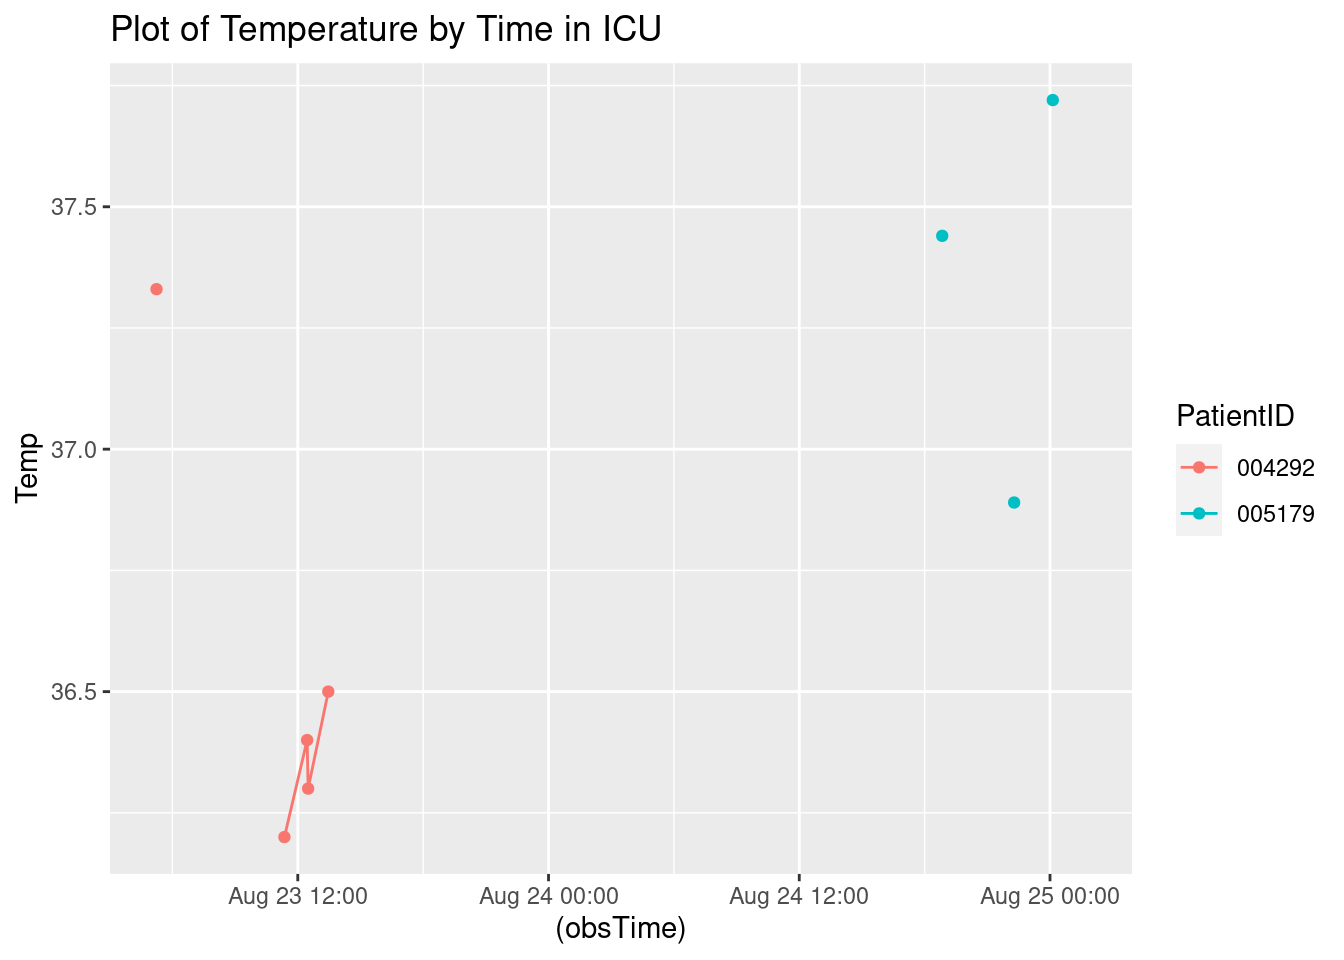
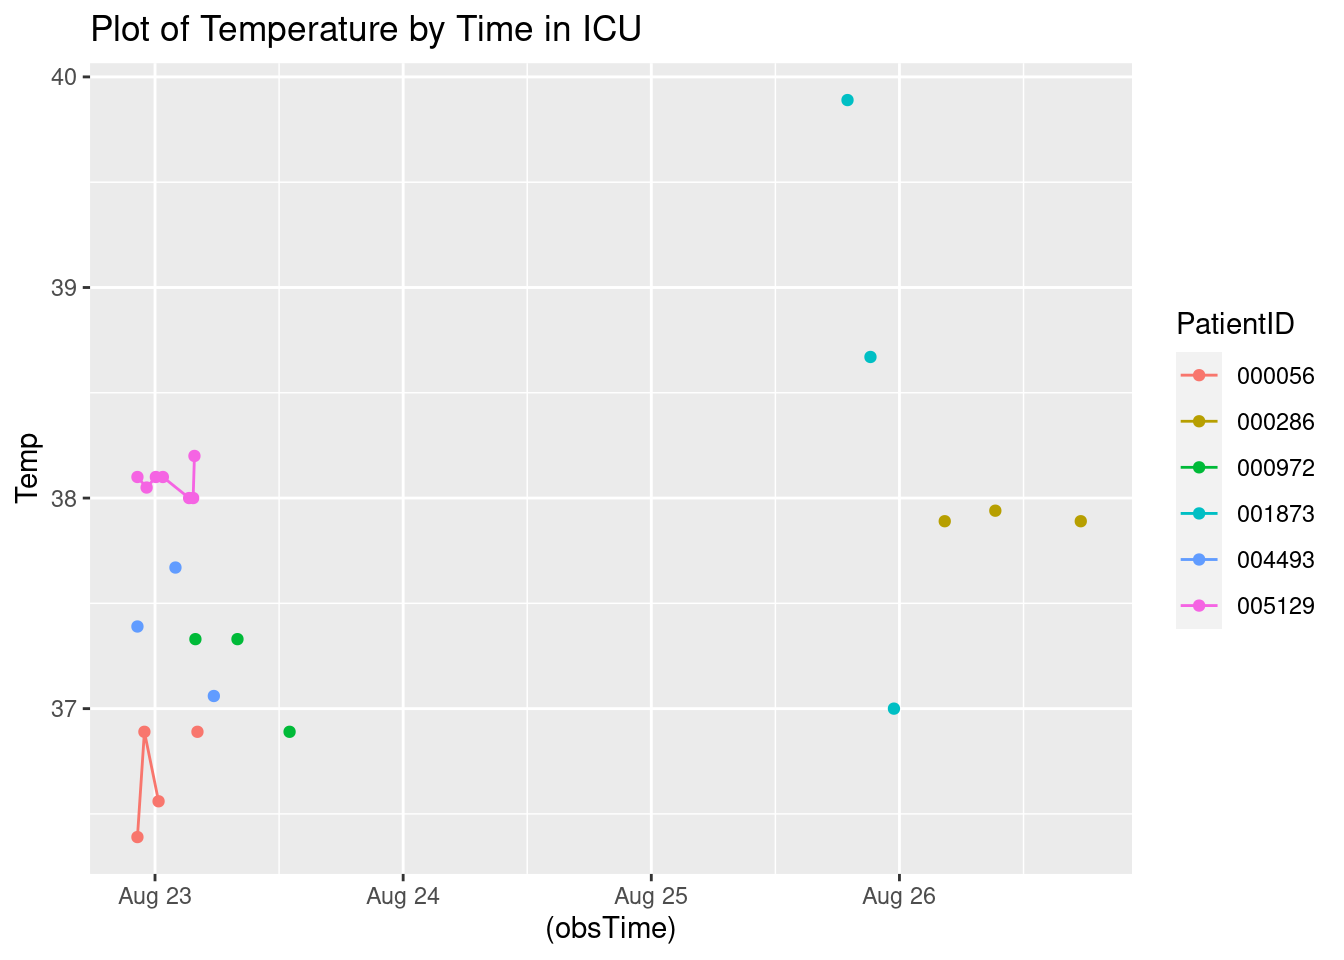
Updated report

diff --git a/A7.html b/A7.html
@@ -114,7 +114,7 @@ pre > code.sourceCode > span > a:first-child::before { text-decoration: underlin
 </div>
 <div class="sourceCode cell-code" id="cb4"><pre class="sourceCode r code-with-copy"><code class="sourceCode r"><span id="cb4-1"><a href="#cb4-1" aria-hidden="true" tabindex="-1"></a><span class="fu">toc</span>()</span></code><button title="Copy to Clipboard" class="code-copy-button"><i class="bi"></i></button></pre></div>
 <div class="cell-output cell-output-stdout">
-<pre><code>5.112 sec elapsed</code></pre>
+<pre><code>3.192 sec elapsed</code></pre>
 </div>
 <div class="sourceCode cell-code" id="cb6"><pre class="sourceCode r code-with-copy"><code class="sourceCode r"><span id="cb6-1"><a href="#cb6-1" aria-hidden="true" tabindex="-1"></a><span class="fu">tic</span>()</span>
 <span id="cb6-2"><a href="#cb6-2" aria-hidden="true" tabindex="-1"></a>test1<span class="ot">=</span><span class="fu">makeSepsisDataset</span>(<span class="at">n=</span><span class="dv">50</span>,<span class="at">read_fn =</span> <span class="st">"read_delim"</span>)</span>
@@ -124,7 +124,7 @@ pre > code.sourceCode > span > a:first-child::before { text-decoration: underlin
 </div>
 <div class="sourceCode cell-code" id="cb8"><pre class="sourceCode r code-with-copy"><code class="sourceCode r"><span id="cb8-1"><a href="#cb8-1" aria-hidden="true" tabindex="-1"></a><span class="fu">toc</span>()</span></code><button title="Copy to Clipboard" class="code-copy-button"><i class="bi"></i></button></pre></div>
 <div class="cell-output cell-output-stdout">
-<pre><code>19.92 sec elapsed</code></pre>
+<pre><code>14.917 sec elapsed</code></pre>
 </div>
 <div class="sourceCode cell-code" id="cb10"><pre class="sourceCode r code-with-copy"><code class="sourceCode r"><span id="cb10-1"><a href="#cb10-1" aria-hidden="true" tabindex="-1"></a><span class="co"># n=100</span></span>
 <span id="cb10-2"><a href="#cb10-2" aria-hidden="true" tabindex="-1"></a><span class="fu">tic</span>()</span>
@@ -135,7 +135,7 @@ pre > code.sourceCode > span > a:first-child::before { text-decoration: underlin
 </div>
 <div class="sourceCode cell-code" id="cb12"><pre class="sourceCode r code-with-copy"><code class="sourceCode r"><span id="cb12-1"><a href="#cb12-1" aria-hidden="true" tabindex="-1"></a><span class="fu">toc</span>()</span></code><button title="Copy to Clipboard" class="code-copy-button"><i class="bi"></i></button></pre></div>
 <div class="cell-output cell-output-stdout">
-<pre><code>9.237 sec elapsed</code></pre>
+<pre><code>5.391 sec elapsed</code></pre>
 </div>
 <div class="sourceCode cell-code" id="cb14"><pre class="sourceCode r code-with-copy"><code class="sourceCode r"><span id="cb14-1"><a href="#cb14-1" aria-hidden="true" tabindex="-1"></a><span class="fu">tic</span>()</span>
 <span id="cb14-2"><a href="#cb14-2" aria-hidden="true" tabindex="-1"></a>test1<span class="ot">=</span><span class="fu">makeSepsisDataset</span>(<span class="at">n=</span><span class="dv">100</span>,<span class="at">read_fn =</span> <span class="st">"read_delim"</span>)</span>
@@ -145,7 +145,7 @@ pre > code.sourceCode > span > a:first-child::before { text-decoration: underlin
 </div>
 <div class="sourceCode cell-code" id="cb16"><pre class="sourceCode r code-with-copy"><code class="sourceCode r"><span id="cb16-1"><a href="#cb16-1" aria-hidden="true" tabindex="-1"></a><span class="fu">toc</span>()</span></code><button title="Copy to Clipboard" class="code-copy-button"><i class="bi"></i></button></pre></div>
 <div class="cell-output cell-output-stdout">
-<pre><code>36.702 sec elapsed</code></pre>
+<pre><code>21.592 sec elapsed</code></pre>
 </div>
 <div class="sourceCode cell-code" id="cb18"><pre class="sourceCode r code-with-copy"><code class="sourceCode r"><span id="cb18-1"><a href="#cb18-1" aria-hidden="true" tabindex="-1"></a><span class="co"># n=500</span></span>
 <span id="cb18-2"><a href="#cb18-2" aria-hidden="true" tabindex="-1"></a><span class="fu">tic</span>()</span>
@@ -156,7 +156,7 @@ pre > code.sourceCode > span > a:first-child::before { text-decoration: underlin
 </div>
 <div class="sourceCode cell-code" id="cb20"><pre class="sourceCode r code-with-copy"><code class="sourceCode r"><span id="cb20-1"><a href="#cb20-1" aria-hidden="true" tabindex="-1"></a><span class="fu">toc</span>()</span></code><button title="Copy to Clipboard" class="code-copy-button"><i class="bi"></i></button></pre></div>
 <div class="cell-output cell-output-stdout">
-<pre><code>45.059 sec elapsed</code></pre>
+<pre><code>27.447 sec elapsed</code></pre>
 </div>
 <div class="sourceCode cell-code" id="cb22"><pre class="sourceCode r code-with-copy"><code class="sourceCode r"><span id="cb22-1"><a href="#cb22-1" aria-hidden="true" tabindex="-1"></a><span class="fu">tic</span>()</span>
 <span id="cb22-2"><a href="#cb22-2" aria-hidden="true" tabindex="-1"></a>test1<span class="ot">=</span><span class="fu">makeSepsisDataset</span>(<span class="at">n=</span><span class="dv">500</span>,<span class="at">read_fn =</span> <span class="st">"read_delim"</span>)</span>
@@ -166,7 +166,7 @@ pre > code.sourceCode > span > a:first-child::before { text-decoration: underlin
 </div>
 <div class="sourceCode cell-code" id="cb24"><pre class="sourceCode r code-with-copy"><code class="sourceCode r"><span id="cb24-1"><a href="#cb24-1" aria-hidden="true" tabindex="-1"></a><span class="fu">toc</span>()</span></code><button title="Copy to Clipboard" class="code-copy-button"><i class="bi"></i></button></pre></div>
 <div class="cell-output cell-output-stdout">
-<pre><code>184.14 sec elapsed</code></pre>
+<pre><code>109.651 sec elapsed</code></pre>
 </div>
 </div>
 <p><strong>Task 3</strong></p>
@@ -192,7 +192,7 @@ pre > code.sourceCode > span > a:first-child::before { text-decoration: underlin
 <span id="cb28-4"><a href="#cb28-4" aria-hidden="true" tabindex="-1"></a></span>
 <span id="cb28-5"><a href="#cb28-5" aria-hidden="true" tabindex="-1"></a><span class="fu">Sys.time</span>()</span></code><button title="Copy to Clipboard" class="code-copy-button"><i class="bi"></i></button></pre></div>
 <div class="cell-output cell-output-stdout">
-<pre><code>[1] "2023-08-22 21:19:06 UTC"</code></pre>
+<pre><code>[1] "2023-08-22 22:18:02 UTC"</code></pre>
 </div>
 <div class="sourceCode cell-code" id="cb30"><pre class="sourceCode r code-with-copy"><code class="sourceCode r"><span id="cb30-1"><a href="#cb30-1" aria-hidden="true" tabindex="-1"></a>dfnew <span class="ot">&lt;-</span> df <span class="sc">%&gt;%</span></span>
 <span id="cb30-2"><a href="#cb30-2" aria-hidden="true" tabindex="-1"></a>  <span class="fu">subset</span>(SepsisLabel<span class="sc">==</span><span class="dv">1</span>)</span>
@@ -221,22 +221,58 @@ pre > code.sourceCode > span > a:first-child::before { text-decoration: underlin
 </thead>
 <tbody>
 <tr class="odd">
-<td style="text-align: left;">004292</td>
-<td style="text-align: right;">18</td>
+<td style="text-align: left;">000056</td>
+<td style="text-align: right;">7</td>
 <td style="text-align: right;">93</td>
-<td style="text-align: right;">36.5</td>
 <td style="text-align: right;">NA</td>
+<td style="text-align: right;">15</td>
 <td style="text-align: right;">1</td>
-<td style="text-align: left;">2023-08-23 13:27:37</td>
+<td style="text-align: left;">2023-08-23 04:58:20</td>
 </tr>
 <tr class="even">
-<td style="text-align: left;">005179</td>
-<td style="text-align: right;">53</td>
-<td style="text-align: right;">87</td>
+<td style="text-align: left;">000286</td>
+<td style="text-align: right;">92</td>
+<td style="text-align: right;">119</td>
+<td style="text-align: right;">NA</td>
+<td style="text-align: right;">26</td>
+<td style="text-align: right;">1</td>
+<td style="text-align: left;">2023-08-26 17:56:00</td>
+</tr>
+<tr class="odd">
+<td style="text-align: left;">000972</td>
+<td style="text-align: right;">16</td>
+<td style="text-align: right;">101</td>
 <td style="text-align: right;">NA</td>
 <td style="text-align: right;">29</td>
 <td style="text-align: right;">1</td>
-<td style="text-align: left;">2023-08-25 01:42:45</td>
+<td style="text-align: left;">2023-08-23 13:51:05</td>
+</tr>
+<tr class="even">
+<td style="text-align: left;">001873</td>
+<td style="text-align: right;">74</td>
+<td style="text-align: right;">70</td>
+<td style="text-align: right;">NA</td>
+<td style="text-align: right;">22</td>
+<td style="text-align: right;">1</td>
+<td style="text-align: left;">2023-08-26 00:11:08</td>
+</tr>
+<tr class="odd">
+<td style="text-align: left;">004493</td>
+<td style="text-align: right;">8</td>
+<td style="text-align: right;">79</td>
+<td style="text-align: right;">37.06</td>
+<td style="text-align: right;">27</td>
+<td style="text-align: right;">1</td>
+<td style="text-align: left;">2023-08-23 05:41:23</td>
+</tr>
+<tr class="even">
+<td style="text-align: left;">005129</td>
+<td style="text-align: right;">6</td>
+<td style="text-align: right;">93</td>
+<td style="text-align: right;">38.20</td>
+<td style="text-align: right;">20</td>
+<td style="text-align: right;">1</td>
+<td style="text-align: left;">2023-08-23 03:48:48</td>
 </tr>
 </tbody>
 </table>
